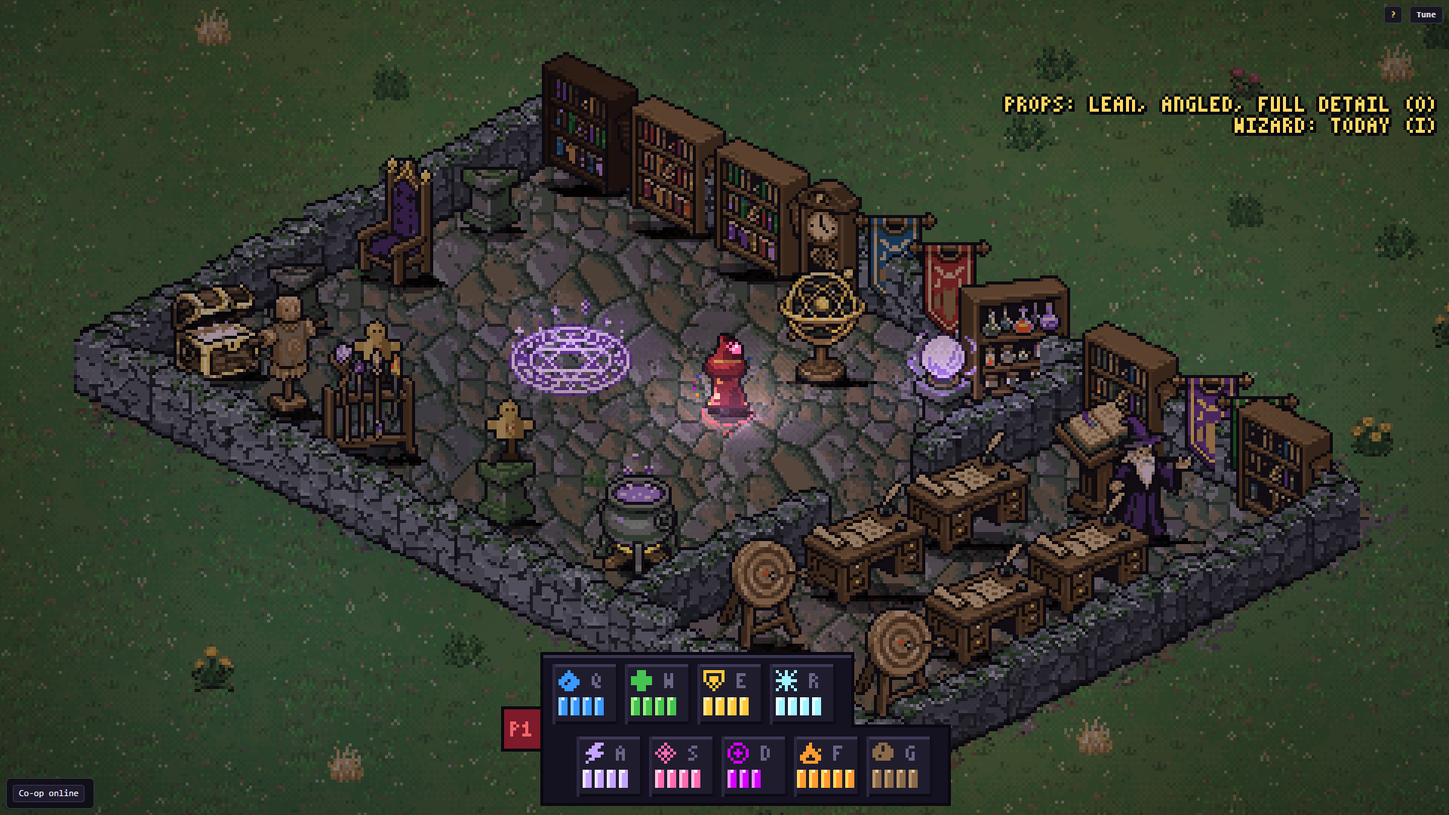
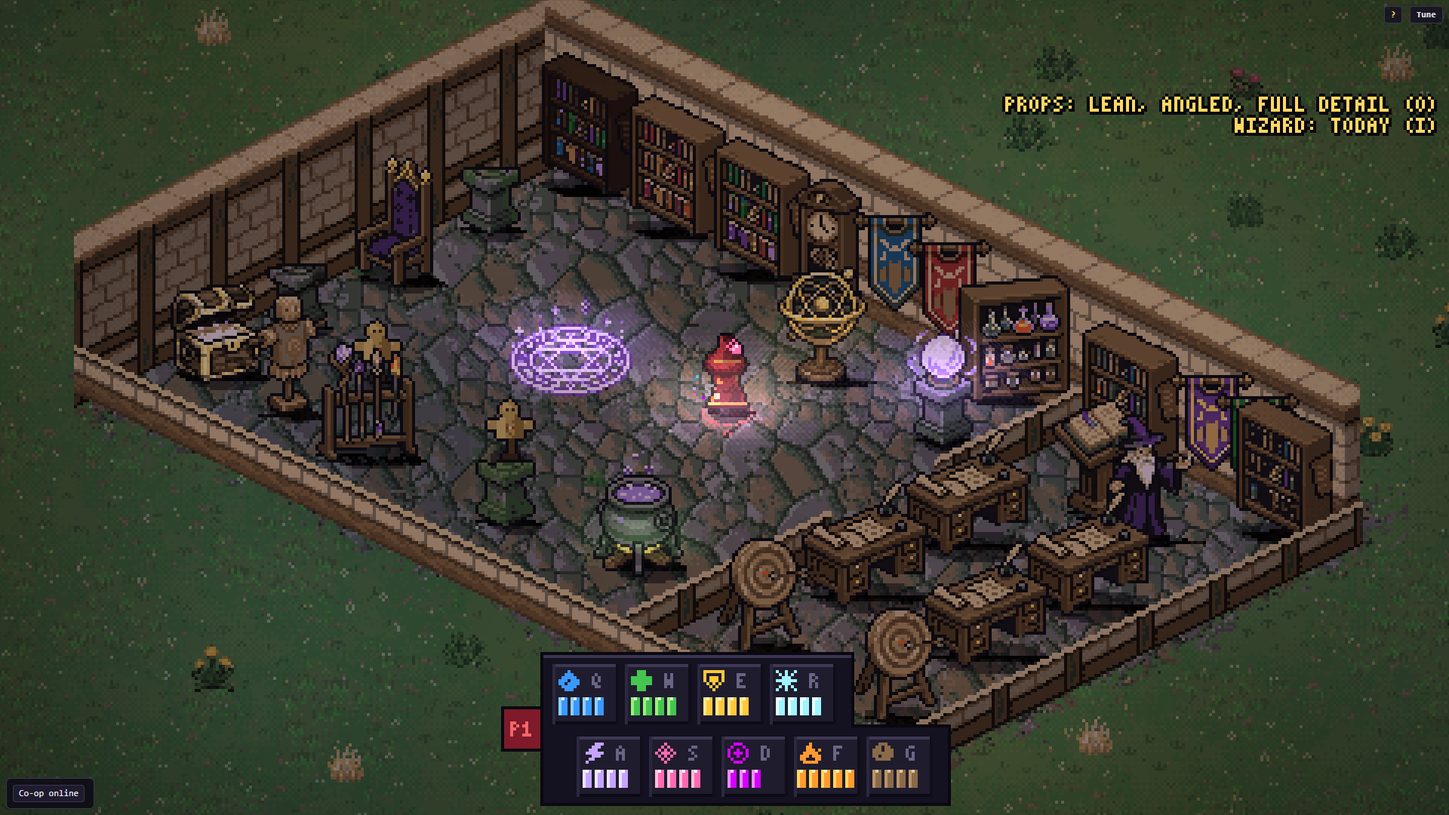
Room walls from the building kits: the Academy gets the school kit
Far walls stand tall and near walls are cut low. Wall-face light fades as it climbs. Survive keeps its drawn walls.

Claude-Session: https://claude.ai/code/session_01JAzvjmRJ1wdD5eYGXNht1d

Changed region(s): [[0.0312, 0.0, 0.9375, 0.9167], [0.3438, 0.3667, 0.5625, 0.5194], [0.4688, 0.2139, 0.5, 0.275]]

diff --git a/game/packages/client/src/art/wall-kit.ts b/game/packages/client/src/art/wall-kit.ts
@@ -1,0 +1,84 @@
+/**
+ * Room walls from a bought building kit (content/assets/kits, tools/art-import/kits.py). A kit piece is
+ * a wall along one edge of a 48 x 24 diamond tile, so it repeats exactly along the two directions a
+ * room's straight walls run in on screen. Walls at any other angle, and walls a player raises,
+ * are drawn by art/walls.ts.
+ *
+ * Far walls stand full height. Near walls are cut low, or they'd hide the room.
+ */
+import { Rectangle, Texture } from 'pixi.js';
+import { loadTexture } from './assets';
+
+export type Side = 'n' | 'w' | 's' | 'e';
+export interface Stamp { side: Side; x: number; y: number; /** Art px of the piece's ground edge to show (24 is all of it). */ part: number; /** The ground y to sort by: a far wall stands behind whatever is against it. */ z: number }
+
+/** Where a run's start sits in each 76 x 86 piece: the upper end of the tile edge that piece stands on. */
+const ANCHOR: Readonly<Record<Side, readonly [number, number]>> = { n: [38, 55], w: [38, 55], s: [14, 67], e: [62, 67] };
+/** Moves a piece onto the wall's centre line: the kit stands walls just inside the tile's edge. */
+const SHIFT: Readonly<Record<Side, readonly [number, number]>> = { n: [4, -2], w: [-4, -2], s: [-4, 2], e: [4, 2] };
+const STEP_X = 24, STEP_Y = 12;
+/** A far wall steps down the screen, so a wide prop against it can reach the next piece along: far walls sort this much earlier. */
+const FAR_MARGIN = 28;
+
+/**
+ * The pieces for a wall from (ax, ay) to (bx, by) in field px, or null if it doesn't run along a tile
+ * edge. realX, realY: its middle in world units, which tells a far wall from a near one.
+ */
+export function kitRun(ax: number, ay: number, bx: number, by: number, realX: number, realY: number): Stamp[] | null {
+  const dx = Math.abs(bx - ax), dy = Math.abs(by - ay);
+  if (dx < 4 || Math.abs(dy * 2 - dx) > 2) return null;
+  const [sx, sy, ex] = ay <= by ? [ax, ay, bx] : [bx, by, ax];
+  const right = ex > sx, side: Side = right ? (realY < 0 ? 'n' : 's') : (realX < 0 ? 'w' : 'e');
+  const [ox, oy] = ANCHOR[side], [mx, my] = SHIFT[side], n = Math.ceil(dx / STEP_X), out: Stamp[] = [];
+  for (let i = 0; i < n; i++) {
+    const px = Math.round(sx + (right ? i : -i) * STEP_X), py = Math.round(sy + i * STEP_Y);
+    out.push({ side, x: px - ox + mx, y: py - oy + my, part: i < n - 1 ? STEP_X : Math.max(1, Math.round(dx - STEP_X * (n - 1))), z: side === 'n' || side === 'w' ? py - FAR_MARGIN : py + STEP_Y });
+  }
+  return out;
+}
+
+const urls = import.meta.glob<string>('../../../../content/assets/kits/*/*.png', { eager: true, query: '?url', import: 'default' });
+const urlOf = new Map(Object.entries(urls).map(([path, url]) => [path.split('/').slice(-2).join('/'), url]));
+
+/**
+ * The kit a room's straight walls are built from. Rooms not listed keep the drawn walls: tall kit walls
+ * hide the action in an open arena like Survive, and its angled walls have no kit pieces to match.
+ */
+const ROOM_KIT: Readonly<Record<string, string>> = { academy: 'academy' };
+export const kitOf = (room: string): string | undefined => ROOM_KIT[room];
+/** How tall a room's far walls stand, for the light on their faces. */
+export const kitWallHeight = (room: string): number | undefined => (ROOM_KIT[room] ? 52 : undefined);
+
+const SIDES: readonly Side[] = ['n', 'w', 's', 'e'];
+const loaded = new Map<string, Partial<Record<Side, Texture>>>();
+const asked = new Set<string>();
+const cut = new Map<string, { tex: Texture; dx: number }>();
+
+/** The kit's pieces, or null until they've all arrived. */
+function pieces(kit: string): Partial<Record<Side, Texture>> | null {
+  const have = loaded.get(kit);
+  if (have) return have;
+  if (!asked.has(kit)) {
+    asked.add(kit);
+    void Promise.all(SIDES.map((s) => loadTexture(urlOf.get(`${kit}/${s}.png`)!))).then((t) => loaded.set(kit, { n: t[0], w: t[1], s: t[2], e: t[3] }));
+  }
+  return null;
+}
+
+/** The texture for a stamp, cropped along the wall if it's a part piece, and how far right to move it for that crop. Null until loaded. */
+export function stampTexture(kit: string, st: Stamp): { tex: Texture; dx: number } | null {
+  const p = pieces(kit)?.[st.side];
+  if (!p) return null;
+  if (st.part >= STEP_X) return { tex: p, dx: 0 };
+  const key = `${kit}|${st.side}|${st.part}`;
+  let c = cut.get(key);
+  if (!c) {
+    const [ox] = ANCHOR[st.side], w = p.width, h = p.height;
+    // runs heading right keep the piece's left, runs heading left keep its right
+    const fromLeft = st.side === 'n' || st.side === 's', keep = fromLeft ? ox + st.part : w - (ox - st.part);
+    const x0 = fromLeft ? 0 : ox - st.part;
+    c = { tex: new Texture({ source: p.source, frame: new Rectangle(x0, 0, keep, h) }), dx: x0 };
+    cut.set(key, c);
+  }
+  return c;
+}

diff --git a/tools/opening-blueprint/index.html b/tools/opening-blueprint/index.html
@@ -123,7 +123,7 @@ ul.tight { margin:0; padding-left:18px; display:grid; gap:4px; }
 <figure style="margin:0;display:grid;gap:6px"><img src="img/ground-in-game.png" alt="Twelve ground materials meeting grass, painted in the real game with wizards and practice dummies" style="width:100%;height:auto;image-rendering:pixelated"><figcaption class="cap">The ground painter under the isometric camera, using a throwaway layout to show every material. Each material meets its neighbours in its own way: grass frays, loose ground clumps, paving loses whole stones, water gets a bank and foam. Variation comes from alternate tiles, broad warm and cool drift, and scattered small objects. The grass has been quieted since your note, and this one has the day lighting on.</figcaption></figure>
 <figure style="margin:0;display:grid;gap:6px"><img src="img/iso-academy.png" alt="The academy art-test room under the isometric camera, furniture standing square to the walls" style="width:100%;height:auto;image-rendering:pixelated"><img src="img/iso-survive.png" alt="The Survive arena under the isometric camera, with ruined stone walls" style="width:100%;height:auto;image-rendering:pixelated"><figcaption class="cap">The isometric camera in two existing rooms.</figcaption></figure>
 <label class="cap" for="note-ratings-ground-look">Notes on the ground</label><textarea id="note-ratings-ground-look" data-c="ratings" data-i="ground-look"></textarea>
-<figure style="margin:0;display:grid;gap:6px"><img src="img/kit-academy.png" alt="Pale stone school walls with oak trim, assembled into a small room" style="width:100%;height:auto;image-rendering:pixelated"><img src="img/kit-fortification.png" alt="Grey fieldstone walls with timber bracing, assembled into a small room" style="width:100%;height:auto;image-rendering:pixelated"><figcaption class="cap">Both wall kits, stamped into test rooms. They include doorways, pillars, stairs and corners. The floors show a diamond grid, so I'd use the painter for floors. These need the isometric camera.</figcaption></figure>
+<figure style="margin:0;display:grid;gap:6px"><img src="img/kit-academy.png" alt="Pale stone school walls with oak trim, assembled into a small room" style="width:100%;height:auto;image-rendering:pixelated"><img src="img/kit-fortification.png" alt="Grey fieldstone walls with timber bracing, assembled into a small room" style="width:100%;height:auto;image-rendering:pixelated"><figcaption class="cap">Both wall kits, stamped into test rooms. They include doorways, pillars, stairs and corners. The floors show a diamond grid, so the painter does the floors. The school kit is now the Academy's walls; the fortification kit waits for the battery.</figcaption></figure>
 <label class="cap" for="note-ratings-kits-look">Notes on the walls</label><textarea id="note-ratings-kits-look" data-c="ratings" data-i="kits-look"></textarea>
 <figure style="margin:0;display:grid;gap:6px"><img src="img/sheets.png" alt="Sixteen academy furnishings and sixteen field works props" style="width:100%;height:auto;image-rendering:pixelated"><img src="img/buildings.png" alt="A storehouse, a stone gatehouse and a guard tower" style="width:100%;height:auto;image-rendering:pixelated"><img src="img/clutter.png" alt="Sixty-four small indoor objects: books, tools, bottles, a cat" style="width:100%;height:auto;image-rendering:pixelated"><figcaption class="cap">Furnishings, field works, three buildings and 64 pieces of indoor clutter, an addition you hadn't seen listed. The gatehouse came out straight-on, unlike the others.</figcaption></figure>
 <label class="cap" for="note-ratings-props-look">Notes on the props</label><textarea id="note-ratings-props-look" data-c="ratings" data-i="props-look"></textarea>

diff --git a/game/packages/client/src/view-structures.ts b/game/packages/client/src/view-structures.ts
@@ -36,6 +36,8 @@ import { CU, FY, TAU, clamp, easeOut, emit, lerp, mod, rand, seg, smooth } from 
 import type { BodyView, LightFn } from './art/vfx';
 import { glyph, perkOf } from './art/perks';
 import { drawTutorialWorld } from './tutorial-view';
+import { kitOf, kitRun, stampTexture } from './art/wall-kit';
+import { toX, toY } from './iso-world';
 import { RISE_STEPS, SLAB_OX, SLAB_OY, SlabCache, facePoint, paintSlab, wallGeom, type WallGeom, type WallSpec } from './art/walls';
 
 /** Seconds between one rune mote appearing and the next. */
@@ -611,7 +613,7 @@ export class StructureView {
 
   // ---- Shield walls ---------------------------------------------------------------------------------
   private walls(w: World, t: number, g: Ctx, o: Ctx, light: LightFn): void {
-    const wl = w.walls, s = w.seats, tick = w.clock[0], live = new Set<string>();
+    const wl = w.walls, s = w.seats, tick = w.clock[0], live = new Set<string>(), kitName = kitOf(w.def.id);
     const joins = (k: number, x: number, y: number) => {
       for (let j = 0; j < MAX_WALLS; j++) if (j !== k && wl.type[j] === WALL.rock && ((Math.abs(wl.x1[j] - x) < 0.05 && Math.abs(wl.y1[j] - y) < 0.05) || (Math.abs(wl.x2[j] - x) < 0.05 && Math.abs(wl.y2[j] - y) < 0.05))) return true;
       return false;
@@ -621,6 +623,20 @@ export class StructureView {
       const a: Pt = [gx(wl.x1[k]), gy(wl.y1[k])], bb: Pt = [gx(wl.x2[k]), gy(wl.y2[k])];
       const age = (tick - (w.walls.born[k] ?? 0)) / 60, hpf = clamp(wl.hp[k] / Math.max(1, wl.maxHp[k]), 0, 1), hitE = this.st - this.wHitT[k];
       if (ty === WALL.rock) {
+        // a room's own straight walls, where it has a kit: bought pieces instead of the drawn stone
+        if (wl.owner[k] === TERRAIN && kitName) {
+          const mu = (wl.x1[k] + wl.x2[k]) / 2, mv = (wl.y1[k] + wl.y2[k]) / 2;
+          const run = kitRun(a[0], a[1], bb[0], bb[1], toX(mu, mv), toY(mu, mv));
+          let drawn = !!run;
+          for (const st of run ?? []) {
+            const got = stampTexture(kitName, st);
+            if (!got) { drawn = false; break; }
+          }
+          if (run && drawn) {
+            for (const st of run) { const got = stampTexture(kitName, st)!; this.pieces.tex(got.tex, st.x + got.dx, st.y, st.z, 0xffffff); }
+            continue;
+          }
+        }
         const cold = has(wl.els, k, ELID.cold), coat = wallLead(wl.els, k, ELID.earth);
         const endA = !joins(k, wl.x1[k], wl.y1[k]), endB = !joins(k, wl.x2[k], wl.y2[k]);
         const pre = `${k}:${wl.born[k]}:${+endA}${+endB}:${+cold}`;
@@ -629,8 +645,7 @@ export class StructureView {
         if (!gm) {
           const lenPx = Math.hypot(bb[0] - a[0], (bb[1] - a[1]) / FY);
           const ruin = wl.owner[k] === TERRAIN; // the arena's own rock: taller, older stone
-          // a room with furniture: its far wall stands as high as a room's, for shelves and banners to stand against
-          const backWall = ruin && w.def.props.length > 0 && wl.y1[k] === wl.y2[k] && wl.y1[k] < 0;
+          const backWall = false;
           const spec: WallSpec = { a: [a[0], a[1]], b: [bb[0], bb[1]], n: Math.max(1, Math.round(lenPx / 12)), H: ruin ? (backWall ? 34 : 19) : 14, T: ruin ? 8 : 7, mat: ruin ? 'ruin' : cold ? 'frost' : 'stone', seed: (k * 7 + wl.born[k]) & 1023, endA, endB };
           gm = { spec, g: wallGeom(spec) };
           this.geoms.set(pre, gm);

diff --git a/game/packages/client/src/art/lighting.ts b/game/packages/client/src/art/lighting.ts
@@ -132,13 +132,13 @@ export function castRay(c: number, s: number, segs: readonly number[], max: numb
 
 /** Scratch for the rays of one light, so a frame's light cutting allocates next to nothing. */
 const ANGLES = new Float64Array(MAX_VERTS * 2);
-function putVert(pos: Float32Array, uv: Float32Array, lx: number, ly: number, R: number, v: number, X0: number, Y0: number, up: number): void {
+function putVert(pos: Float32Array, uv: Float32Array, lx: number, ly: number, R: number, v: number, X0: number, Y0: number, up: number, farX = 0, farY = 0): void {
   pos[v * 2] = lx + X0; pos[v * 2 + 1] = ly + Y0 * FY - up;
-  uv[v * 2] = (X0 / R + 1) / 2; uv[v * 2 + 1] = (Y0 / R + 1) / 2;
+  uv[v * 2] = ((X0 + farX) / R + 1) / 2; uv[v * 2 + 1] = ((Y0 + farY) / R + 1) / 2;
 }
 
 /** Fills a light's triangle fan, then a quad for each wall face turned toward it. Unused indices are left as empty triangles. */
-function fillShape(pos: Float32Array, uv: Float32Array, idx: Uint32Array, lx: number, ly: number, R: number, segs: readonly number[]): void {
+function fillShape(pos: Float32Array, uv: Float32Array, idx: Uint32Array, lx: number, ly: number, R: number, segs: readonly number[], wallH: number): void {
   let na = 0;
   for (let k = 0; k < RAYS; k++) ANGLES[na++] = (k / RAYS) * Math.PI * 2 - Math.PI;
   for (let i = 0; i < segs.length && na + 2 <= ANGLES.length; i += 2) if (Math.hypot(segs[i], segs[i + 1]) < R) { const a = Math.atan2(segs[i + 1], segs[i]); ANGLES[na++] = a - 0.002; ANGLES[na++] = a + 0.002; }
@@ -161,7 +161,9 @@ function fillShape(pos: Float32Array, uv: Float32Array, idx: Uint32Array, lx: nu
     const mx = (ax + bx) / 2, my = (ay + by) / 2, dist = Math.hypot(mx, my) || 1;
     if (castRay(mx / dist, my / dist, segs, dist + 1) < dist - 2) continue; // another wall is in the way
     putVert(pos, uv, lx, ly, R, v, ax, ay, 0); putVert(pos, uv, lx, ly, R, v + 1, bx, by, 0);
-    putVert(pos, uv, lx, ly, R, v + 2, bx, by, WALL_H); putVert(pos, uv, lx, ly, R, v + 3, ax, ay, WALL_H);
+    // higher up the wall is further from a light on the ground, so the glow fades as it climbs
+    const nl = Math.hypot(nx, ny) || 1, fx = (-nx / nl) * wallH * 1.4, fy = (-ny / nl) * wallH * 1.4;
+    putVert(pos, uv, lx, ly, R, v + 2, bx, by, wallH, fx, fy); putVert(pos, uv, lx, ly, R, v + 3, ax, ay, wallH, fx, fy);
     idx[n++] = v; idx[n++] = v + 1; idx[n++] = v + 2; idx[n++] = v; idx[n++] = v + 2; idx[n++] = v + 3;
     v += 4;
   }
@@ -198,6 +200,8 @@ export class SceneLighting {
   private wallMood: Mood | null = null;
   private fx = 0;
   private fy = 0;
+  /** How tall the room's walls are, for the light on their faces. */
+  wallHeight = WALL_H;
   private shadowTex: RenderTexture | null = null;
   private lightTex: RenderTexture | null = null;
   private w = 0;
@@ -345,7 +349,7 @@ export class SceneLighting {
       const near = used < MAX_BLOCKED ? nearWalls(this.occ, L.x, L.y, R, this.nearBuf) : null;
       if (!near || !near.length) { this.lights.add(L.x, L.y, L.r, L.col, L.a); this.glow.add(L.x, L.y, L.r, L.col, L.a); continue; }
       const s = this.shape(used++);
-      fillShape(s.pos, s.uv, s.idx, L.x, L.y, R, near);
+      fillShape(s.pos, s.uv, s.idx, L.x, L.y, R, near, this.wallHeight);
       s.geo.getBuffer('aPosition').update();
       s.geo.getBuffer('aUV').update();
       s.geo.getIndex().update();

diff --git a/game/packages/client/test/wall-kit.test.ts b/game/packages/client/test/wall-kit.test.ts
@@ -1,0 +1,35 @@
+import { describe, expect, it } from 'vitest';
+import { kitRun } from '../src/art/wall-kit';
+
+describe('kit walls', () => {
+  it('only takes walls that run along a tile edge', () => {
+    expect(kitRun(0, 0, 100, 50, 0, -5)).not.toBeNull();
+    expect(kitRun(0, 0, 100, 0, 0, -5)).toBeNull(); // straight across the screen
+    expect(kitRun(0, 0, 0, 50, 0, -5)).toBeNull();
+  });
+
+  it('tells far walls from near ones', () => {
+    expect(kitRun(0, 0, 96, 48, 0, -5)![0].side).toBe('n');
+    expect(kitRun(0, 0, 96, 48, 0, 5)![0].side).toBe('s');
+    expect(kitRun(96, 0, 0, 48, -5, 0)![0].side).toBe('w');
+    expect(kitRun(96, 0, 0, 48, 5, 0)![0].side).toBe('e');
+  });
+
+  it('is the same wall whichever end it was drawn from', () => {
+    expect(kitRun(0, 0, 96, 48, 0, -5)).toEqual(kitRun(96, 48, 0, 0, 0, -5));
+  });
+
+  it('lays whole pieces, and only part of the last', () => {
+    const run = kitRun(0, 0, 60, 30, 0, -5)!;
+    expect(run.length).toBe(3);
+    expect(run[0].part).toBe(24);
+    expect(run[1].part).toBe(24);
+    expect(run[2].part).toBe(12);
+  });
+
+  it('steps exactly one tile at a time, on the 2:1 line', () => {
+    const run = kitRun(0, 0, 96, 48, 0, -5)!;
+    expect(run[1].x - run[0].x).toBe(24);
+    expect(run[1].y - run[0].y).toBe(12);
+  });
+});

diff --git a/game/packages/client/src/view.ts b/game/packages/client/src/view.ts
@@ -27,6 +27,7 @@ import { floorLayout, floorPlaceholder } from './art/floor';
 import { groundTexture } from './art/ground-room';
 import { toX, toY, turnedWorld } from './iso-world';
 import { PROP_LIGHTS, SceneLighting, moodOf } from './art/lighting';
+import { kitWallHeight } from './art/wall-kit';
 import { EdgeMarks } from './edge-marks';
 import { Lights } from './art/lights';
 import { PropView } from './art/props';
@@ -323,6 +324,7 @@ export class WorldView {
     if (lit) {
       lit.fit(cam.w, cam.h);
       lit.begin(moodOf(w.def.id, this.mood), ct, fx0, fy0);
+      lit.wallHeight = kitWallHeight(w.def.id) ?? 22;
       this.props.standing((tex, fx, fy, x, y, asset, flat) => {
         if (!flat) lit.shadow(tex, fx, fy, x, y);
         const l = PROP_LIGHTS[asset];

diff --git a/tools/art-import/kits.py b/tools/art-import/kits.py
@@ -1,0 +1,62 @@
+"""The bought building kits into the pieces rooms use. No generation calls.
+
+  python tools/art-import/kits.py
+
+Writes game/content/assets/kits/<kit>/{n,w,s,e}.png. n and w are the tall far walls, whose inner faces the camera
+sees. s and e are near walls, cut down low so they don't hide the room (the kit draws them full height), with a
+capping course across the cut. Raw files in generated/ stay untouched.
+"""
+import os
+import numpy as np
+from PIL import Image
+
+HERE = os.path.dirname(os.path.abspath(__file__))
+RAW = os.path.join(HERE, '../../game/content/generated/pixellab/opening')
+OUT = os.path.join(HERE, '../../game/content/assets/kits')
+KITS = {'academy': 'kit-academy', 'fortification': 'kit-fortification'}
+# piece index in the kit: north, west, south, east side of a tile
+PIECES = {'n': 1, 'w': 4, 's': 3, 'e': 2}
+# how high the near walls stand, art px above their ground line
+LOW = 15
+
+
+def base_y(side, x):
+    """The near wall's ground line in the 76 x 86 piece: the tile diamond's lower edges."""
+    return 67 + (x - 14) / 2 if side == 's' else 67 + (62 - x) / 2
+
+
+def cut_low(a, side):
+    h, w = a.shape[:2]
+    op = a[:, :, 3] > 0
+    ys, xs = np.nonzero(op)
+    top = ys.min()
+    # the kit's own cap course is the lightest colour near the top of the piece
+    band = a[(ys[ys < top + 8]), (xs[ys < top + 8])][:, :3].astype(int)
+    cap = band[np.argsort(band.sum(axis=1))[-len(band) // 3]]
+    out = a.copy()
+    for x in range(w):
+        cut = int(round(base_y(side, x))) - LOW
+        column = np.nonzero(op[:, x])[0]
+        if not len(column): continue
+        out[:cut, x] = 0
+        first = max(cut, column.min())
+        if first <= column.max():
+            out[first: first + 2, x, :3] = cap
+            out[first: first + 2, x, 3] = 255
+            out[first + 2: first + 3, x, :3] = (a[first + 2, x, :3] * 0.6).astype(np.uint8)
+    return out
+
+
+def main():
+    for kit, folder in KITS.items():
+        d = os.path.join(OUT, kit)
+        os.makedirs(d, exist_ok=True)
+        for side, i in PIECES.items():
+            a = np.array(Image.open(os.path.join(RAW, folder, f'tile_{i:02d}.png')).convert('RGBA'))
+            if side in 'se': a = cut_low(a, side)
+            Image.fromarray(a, 'RGBA').save(os.path.join(d, side + '.png'), optimize=True)
+        print(kit, 'done')
+
+
+if __name__ == '__main__':
+    main()

diff --git a/docs/current-state.md b/docs/current-state.md
@@ -49,6 +49,7 @@ Play it: https://magnevan.github.io/wizard-sim/ (code in `../game/`, commands in
 - **Outdoor art is in the registry, not in a room:** 104 PixelLab props (`tools/outdoor-kit/`): fences, a gate, a pell, a sword rack, trees, farm and ruin props, and 64 small scatter pieces at half size. The game has no floor painter yet, so its bought ground exists only in the review page's picture. D: [Outdoor art](decisions/README.md#2026-11-07-outdoor-art-tier-1-and-painted-ground-explorations2026-11-07-outdoor-art-kit-resultsmd).
 - **Props are the `Prop` entity in LDtk** (asset id, blocks or not). A blocking prop's footprint compiles to static rock the client doesn't draw (`propRock`), so it stops bodies and shots and has no other gameplay. Props depth-sort with the actors. Same decision.
 - **A ground painter exists, and no room uses it yet:** a client-only Ground layer in LDtk (twelve materials, each with its own edge style, plus alternates and scattered props), painted per pixel through the camera. Rooms with no Ground cells keep the code-drawn floor. How to edit: `game/content/README.md`. D: [The ground painter](decisions/README.md#2026-11-09-the-ground-painter-and-the-first-general-art-for-the-opening-campaign01-openingspacemd).
+- **Room walls can come from a bought kit** (the Academy's do; how: `game/content/README.md`). Far walls stand tall and near walls are cut low. Other rooms keep the drawn walls.
 - **Scene lighting:** a mood per room (`?mood=day|dusk|night|interior`, `?lighting=0` for off), cast shadows, lamps on props, a colour grade. See `explorations/2026-11-09-lighting.md`. Walls stop light and their faces catch it, and spells light along their length. It hasn't been measured on a real graphics card.
 - **The Sanctum** (default): three practice dummies, with the tuning panel (F1). **The Arena** (`#arena`): waves from portals, lulls and breathers. **Survive** (`#survive`): a 48 x 34 walled arena, endless waves. D: [Survive mode in the game](decisions/README.md#2026-11-05-survive-mode-in-the-game-explorations2026-11-05-survive-modemd), [Survive grows to 48 x 34](decisions/README.md#2026-11-05-survive-grows-to-48-x-34-guards-read-from-behind-a-stalled-page-no-longer-drops-the-others).
 - **The camera follows your own wizard, in every room,** at one fixed scale (no zoom-out), stopping a little past the arena's edge; where the arena fits the screen it only drifts toward you. Other wizards off screen get an arrow at the edge in their seat colour (blinking while downed), beside the enemy and portal marks. Several local seats on one screen share it: the camera aims at their middle, and an arena that fits is framed still. D: [Survive Review answers, round 1](decisions/README.md#2026-11-05-survive-review-answers-round-1).

diff --git a/CLAUDE.md b/CLAUDE.md
@@ -18,7 +18,7 @@ The source of truth for what the game is trying to be is `docs/vision.md`. Read 
 - `docs/world/`: living pages about the setting, edited as it changes (unlike explorations). `elements.md` holds each element's essence, which informs both the world and the spells.
 - `docs/campaign/`: how campaign segments get made (`README.md`, stage by stage), one folder per segment, and `canon.md`, the one page saying which story facts the user has approved. Read `canon.md` before writing story; everything not in its Approved section is an option.
 - `tools/opening-blueprint/`: the Opening Blueprint, the space-diagram stage of the opening: five maps at true scale, a camera preview and the asset list. Ratings are in its db collection `ratings` (`map-*`, `job-*`; a job is bought only when marked `approve`), answers in `answers` (`q-*`, `general`).
-- `tools/art-import/`: free scripts that turn bought art into game assets: `ground.py` cuts the painter's textures, `props.py` registers the opening's props.
+- `tools/art-import/`: free scripts that turn bought art into game assets: `ground.py` cuts the painter's textures, `props.py` registers the opening's props, `kits.py` prepares the wall kits.
 - `docs/reference/`: notes on Magicka and other reference games. Facts recalled from memory are marked *(unverified)*.
 - `docs/explorations/`: dated, long-form thinking sessions (`YYYY-MM-DD-topic.md`). Once written, they're a record and aren't rewritten. Newer explorations supersede older ones.
 - `docs/ideas/`: one file per mechanic idea, written from `docs/ideas/_template.md`. Each has a status: `raw` → `developing` → `prototyping` → `adopted` / `parked` / `rejected`.

diff --git a/game/content/README.md b/game/content/README.md
@@ -124,3 +124,7 @@ The **Ground** layer (IntGrid, one cell = 0.5 u) says what the floor looks like:
 Edit it in LDtk, or as text with `npm run content -- ground <level>` and `--write <file|->`. Textures are `content/assets/ground/<name>.png`, cut from the tilesets by `tools/art-import/ground.py`. The painter (`client/src/art/ground.ts`) works through any camera.
 
 **Transitions and variation.** Each material has a layer and an edge style (`MATERIAL_STYLES` in `art/ground.ts`). The higher layer decides the edge: grass and forest floor fray, loose ground breaks into clumps, paving loses whole irregular stones, and water gets a dark bank and a foam line. Variation stacks: alternate tiles (`<material>-2.png` and on, colour-matched to the first, picked by region), a random shift and mirror per block for loose materials, broad light and warm or cool drift, and a scatter of small props per material (`SCATTER` in `art/ground-room.ts`).
+
+## Walls from a building kit
+
+A room can build its straight walls from a kit in `content/assets/kits/<kit>/` (`tools/art-import/kits.py` cuts these from the bought kits): list it in `ROOM_KIT` in `client/src/art/wall-kit.ts`. Pieces repeat exactly along the two directions the map's axis-aligned Rock walls run on screen, and a wall that doesn't end on a whole tile (about 2.1 units) is cropped. Walls on the north and west of the room stand full height; those on the south and east are cut low so they don't hide the room. Walls at other angles, and walls a player raises, stay drawn by `art/walls.ts`.

diff --git a/docs/decisions/README.md b/docs/decisions/README.md
@@ -1075,3 +1075,8 @@ The user asked for an audit of how spells scale with extra runes, and for it to 
 ## 2026-11-09: Isometric is the only camera; walls and spells in the lighting (`explorations/2026-11-09-lighting.md`)
 - **The straight-on view and the old code-drawn floor are removed** (the user: "we can probably just kill the non isometric stuff. I dont want you to have to duplicate work"). The tutorial and help previews work under it. This reaches the public game when the branch is merged.
 - **Walls stop light and their faces catch it; beams and sprays light along their whole length** in their own colour.
+
+## 2026-11-09: Room walls from the building kits
+- **The Academy's walls are the bought school kit;** far walls stand tall, near walls are cut low so the room stays visible. Asked for by the user ("Let's do the wall kit thing").
+- **Survive keeps its drawn walls** (Claude's call): tall kit walls hid the action in the open arena, cutting them low looked like fences, and its angled walls have no kit pieces.
+- **The fortification kit waits for the battery,** where a tall defensive wall is the point.

diff --git a/docs/campaign/01-opening/space.md b/docs/campaign/01-opening/space.md
@@ -35,7 +35,7 @@ You walk north throughout, because the view reaches further up the screen than d
 
 On 2026-11-09 the user authorized buying the general art, so everything but the defence is bought (158 generations, with extra ground sets, alternates and a clutter sheet; 1,772 are left). Results are on the page. **The defence (20 generations) still waits for an Approve.**
 
-The ground painter and the isometric camera are built. What's left before the art is in is using the wall kits.
+The ground painter and the isometric camera are built. The Academy's walls use the school kit, and the fortification kit is ready for the battery.
 
 ## Open questions, on the page
 
